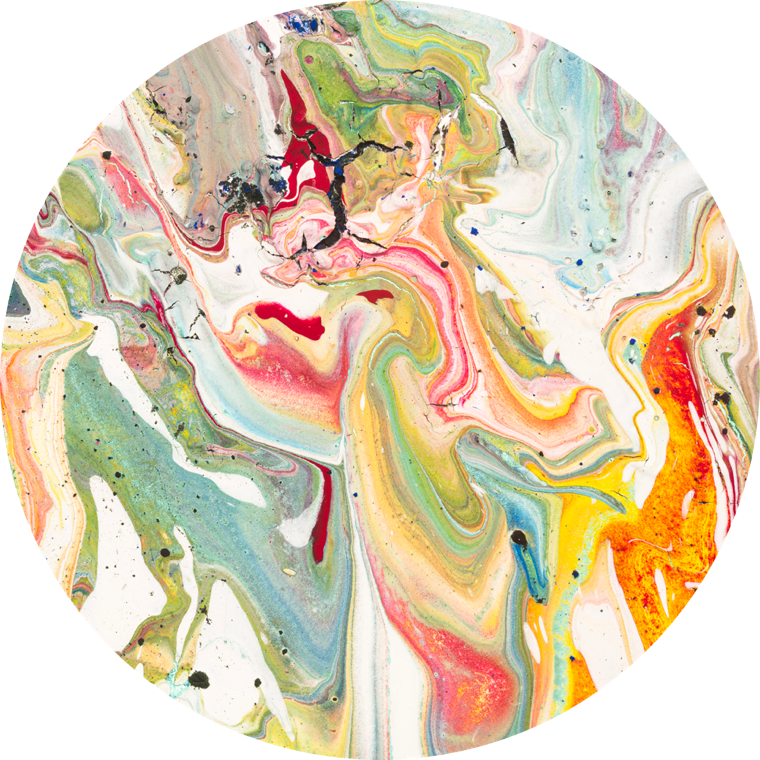
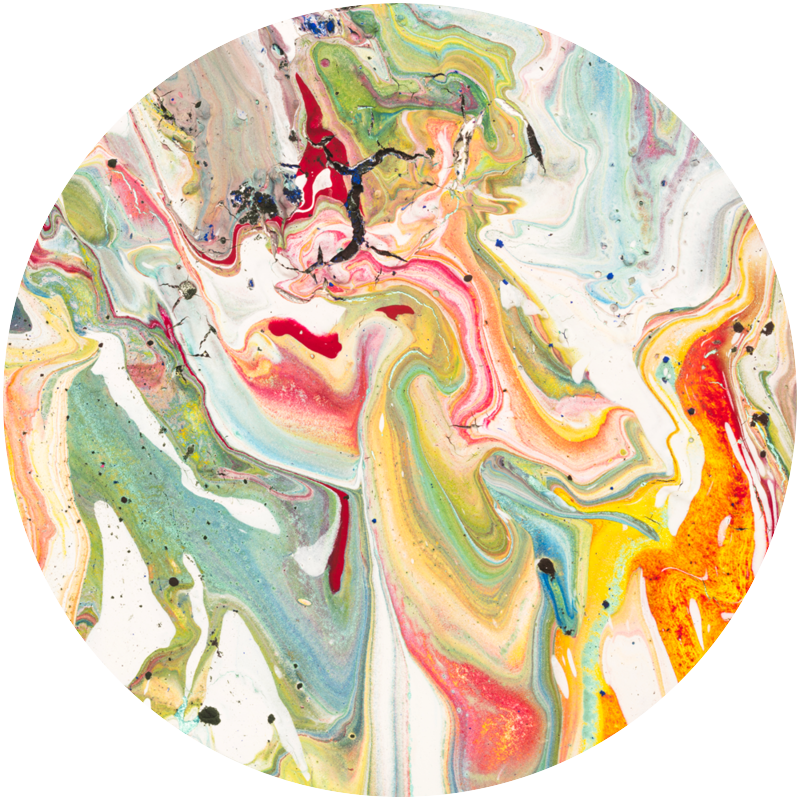
fix: uniform disc rendering for collection pieces
All three masked to clean transparent circles (removes MAR baked
shadow + Solar/Tierra edge halos), plus a single uniform CSS
box-shadow on .piece-circle so all three render identically.

diff --git a/kroma-landing-page.html b/kroma-landing-page.html
@@ -321,7 +321,7 @@ h3{
 /* ── COLLECTION ── */
 .coll-header{display:grid;grid-template-columns:3fr 2fr;gap:clamp(40px,8vw,120px);align-items:end;margin-bottom:clamp(48px,8vw,100px);}
 .coll-pieces{display:grid;grid-template-columns:repeat(3,1fr);gap:clamp(20px,3vw,48px);}
-.piece-circle{width:100%;aspect-ratio:1;border-radius:50%;overflow:hidden;margin-bottom:clamp(18px,3vw,32px);}
+.piece-circle{width:100%;aspect-ratio:1;border-radius:50%;overflow:hidden;margin-bottom:clamp(18px,3vw,32px);box-shadow:0 24px 48px -16px rgba(24,24,24,.28);}
 .piece-circle img{width:100%;height:100%;object-fit:cover;transition:transform .8s cubic-bezier(.16,1,.3,1);}
 @media (hover: hover) {
   .piece-circle:hover img{transform:scale(1.04);}
@@ -563,7 +563,7 @@ footer a:hover{color:#f7f7f7;}
     <div class="coll-pieces">
       <div class="fade-up">
         <div class="piece-circle">
-          <img src="Images/kroma-80cm.png" alt="MAR" style="object-position:50% center;" loading="lazy">
+          <img src="Images/kroma-mar-disc.png" alt="MAR" loading="lazy">
         </div>
         <p class="piece-edition">Édition I · N° 1–50</p>
         <p class="piece-name">MAR</p>